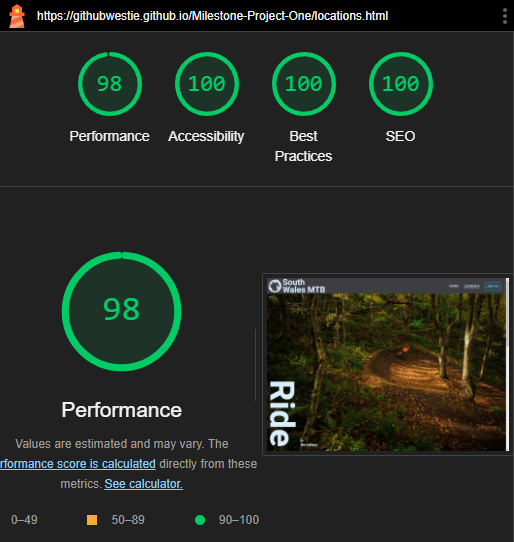
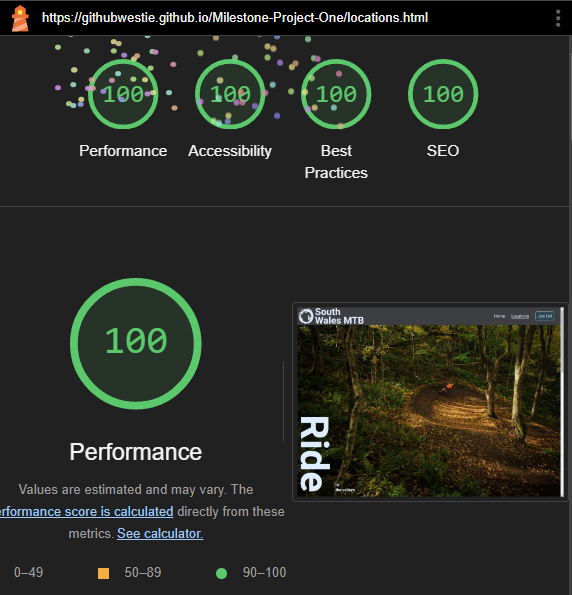
Updated readme. Chasing Google Lighthouse Results

diff --git a/index.html b/index.html
@@ -41,10 +41,10 @@
         </nav>
     </header>
 
-    <div class="index-lg-image hero">
+    <!-- <div class="index-lg-image hero">
         <h2>Ride</h2>
         <p>in<br>the valleys</p>
-    </div>
+    </div> -->
 
     <article class="intro">
         <h2><span>Why</span> Ride With Us?</h2>

diff --git a/assets/css/style.css b/assets/css/style.css
@@ -141,6 +141,8 @@ nav > ul {
     color: #dbeeff;
     justify-self: self-end;
     line-height: 0.9;
+    font-family: 'Arial';
+    letter-spacing: -8px;
 }
 
 .hero > p {

diff --git a/README.md b/README.md
@@ -216,6 +216,7 @@ A simple blog for detailing previous events involving the club such as club ride
 As the site grows it will become impractical to keep adding icons to the mobile nav bar. A collapsable and expandable nav bar will provide a much better user exerience.
 
 ## **Deployment**
+
 The site is deployed via GitHub Pages. Steps to deploy are as follows:
 
 1. Log in to GitHub and select `Milestone-Project-One` from the repo list
@@ -224,7 +225,17 @@ The site is deployed via GitHub Pages. Steps to deploy are as follows:
 4. Under `Build and Deployment`, in the `Source` drop-down list, select `Deploy from branch`.
 5. Still under `Build and Deployment`, in the `Branch` drop-down lists, select `Main` and `/(root)`
 6. Click `Save`
-7. 
+7. The project will be built and a `url` and `button` will appear at the top of the page. Use one of these to navigate to the deployed project.
+
+### **Run Locally**
+#### Clone from URL
+1. Log in to GitHub and select `Milestone-Project-One` from the repo list
+2. To the right side of the page fine the green `code` button and click to see the drop down menu.
+3. Under the `HTTP` tab, select the URL or click the copy button to the right of the URL to copy.
+4. Create a folder for the repo.
+5. In your chosen IDE change the working directory to the directory chosen for the repo.
+6. Open the git bash cli and type `git clone` followed by the copied URL
+7. Wait for the repo to be cloned
 
 ## **Testing**
 
